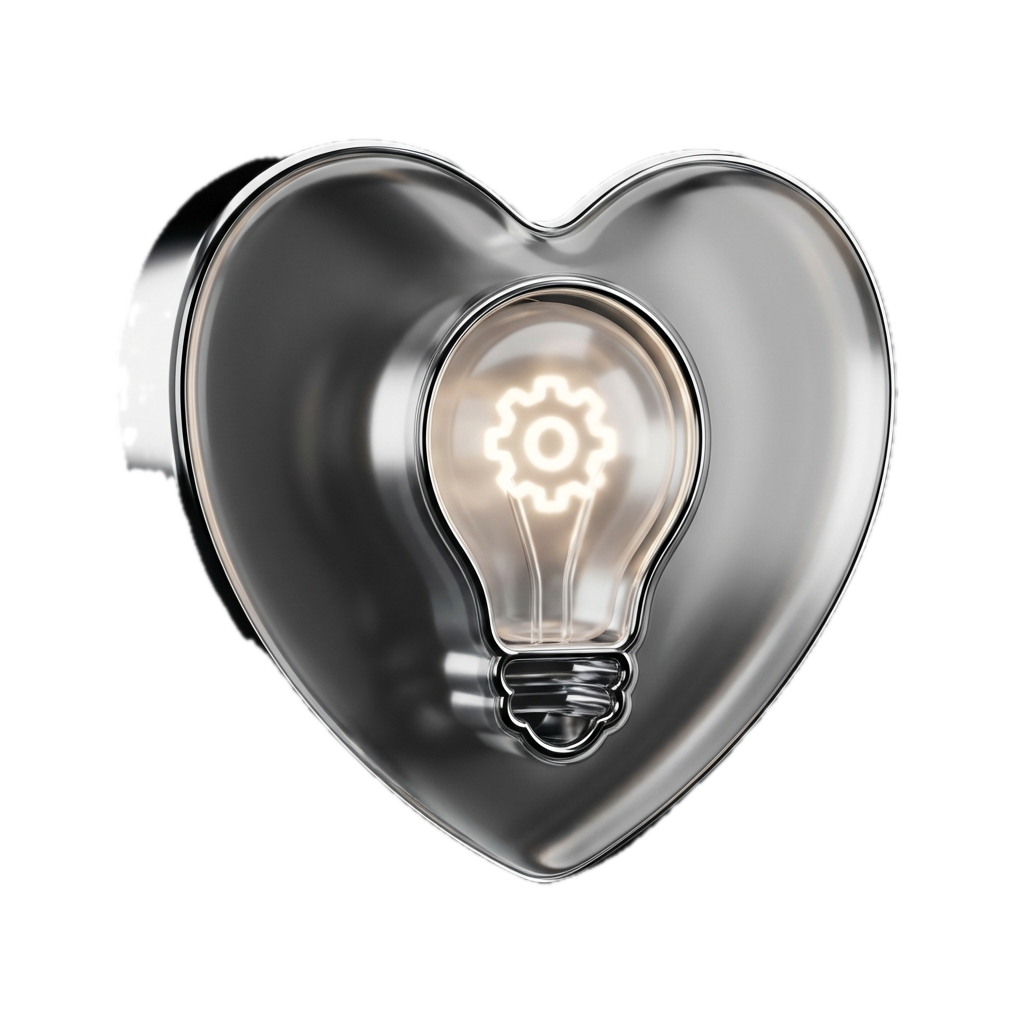
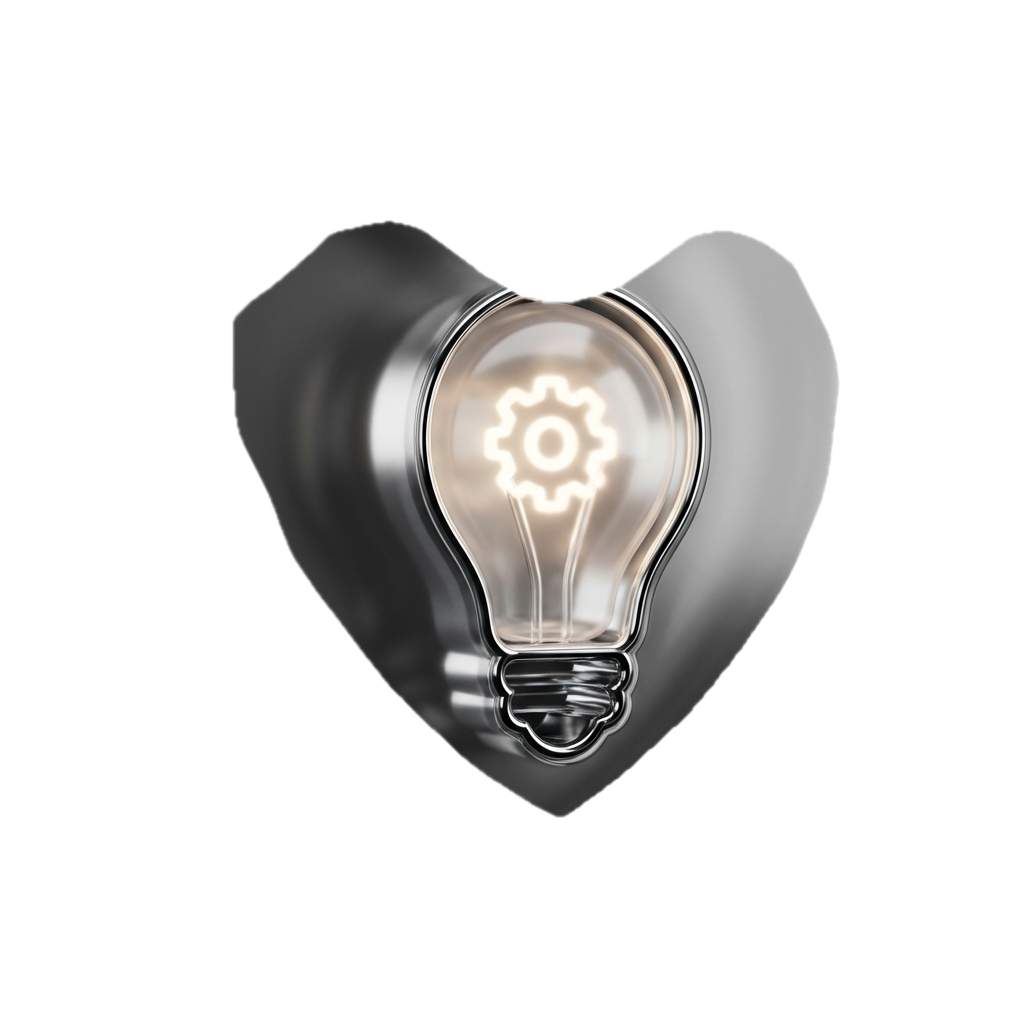
Update background to hero-bg-new.png with 35% dark overlay for better text readability

Changed region(s): [[0.125, 0.125, 0.875, 0.875]]

diff --git a/index.html b/index.html
@@ -13,7 +13,7 @@
         href="https://fonts.googleapis.com/css2?family=Playfair+Display:ital,wght@0,400;0,500;0,600;0,700;1,400&family=DM+Sans:ital,wght@0,300;0,400;0,500;0,600;1,400&display=swap"
         rel="stylesheet">
     <link rel="preload" href="media/hero-bg-new.png" as="image">
-    <link rel="stylesheet" href="styles.css?v=19">
+    <link rel="stylesheet" href="styles.css?v=21">
 </head>
 
 <body class="alternative-design">

diff --git a/styles.css b/styles.css
@@ -196,7 +196,9 @@ body.alternative-design::before {
     left: 0;
     width: 100%;
     height: 100%;
-    background: url('media/hero-bg-final.png') center center/cover no-repeat;
+    background:
+        linear-gradient(rgba(0, 0, 0, 0.35), rgba(0, 0, 0, 0.35)),
+        url('media/hero-bg-new.png') center center/cover no-repeat;
     pointer-events: none;
     z-index: -1;
 }
